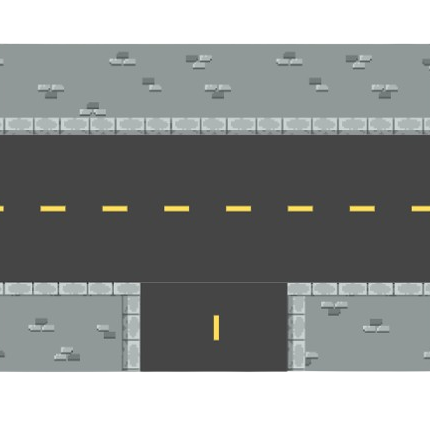
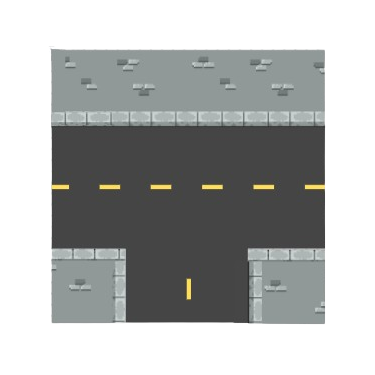
scaling

diff --git a/JOXE game/road.py b/JOXE game/road.py
@@ -3,9 +3,10 @@ import pygame
 class Road:
     def __init__(self, x, y, grid_size):
         self.x = x - 10
-        self.y = y - 8
+        self.y = y - 10
         self.grid_size = grid_size
         self.type = None
+        self.scale = 1.28  #1.28
 
         # Load the default road image
         self.set_type('road')
@@ -20,9 +21,16 @@ class Road:
         self.update_image()
 
     def update_image(self):
-        # Load the road image based on its type and scale it
+        # Load the road image based on its type
         road_image_path = f'./assets/resources/road/{self.type}.png'
-        self.image = pygame.transform.scale(pygame.image.load(road_image_path), (self.grid_size + 20, self.grid_size + 18))
+        image = pygame.image.load(road_image_path)
+
+        # Calculate new size
+        new_size = (int(self.grid_size * (self.scale + 0.1)), int(self.grid_size * (self.scale + 0.11)))
+
+        # Scale the image
+        self.image = pygame.transform.scale(image, new_size)
+
 
     def change_image(self, new_image_path):
         # Change the road image to the specified image

diff --git a/JOXE game/car.py b/JOXE game/car.py
@@ -6,7 +6,16 @@ class Car:
         self.road_objects = road_objects
         self.current_road_index = 0  # Start from the first road
         self.speed = 5  # Adjust the speed as needed
-        self.image = pygame.transform.scale(pygame.image.load('./assets/resources/cars/car.png'), (grid_size, grid_size))
+        self.scale = 0.05  # Adjust the scale as needed
+
+        # Load the image
+        image = pygame.image.load('./assets/resources/cars/car.png')
+        # Calculate new size
+        width, height = image.get_size()
+        new_size = (int(width * self.scale), int(height * self.scale))
+        # Scale the image
+        self.image = pygame.transform.scale(image, new_size)
+
         self.position = self.get_start_position()
 
     def get_start_position(self):
